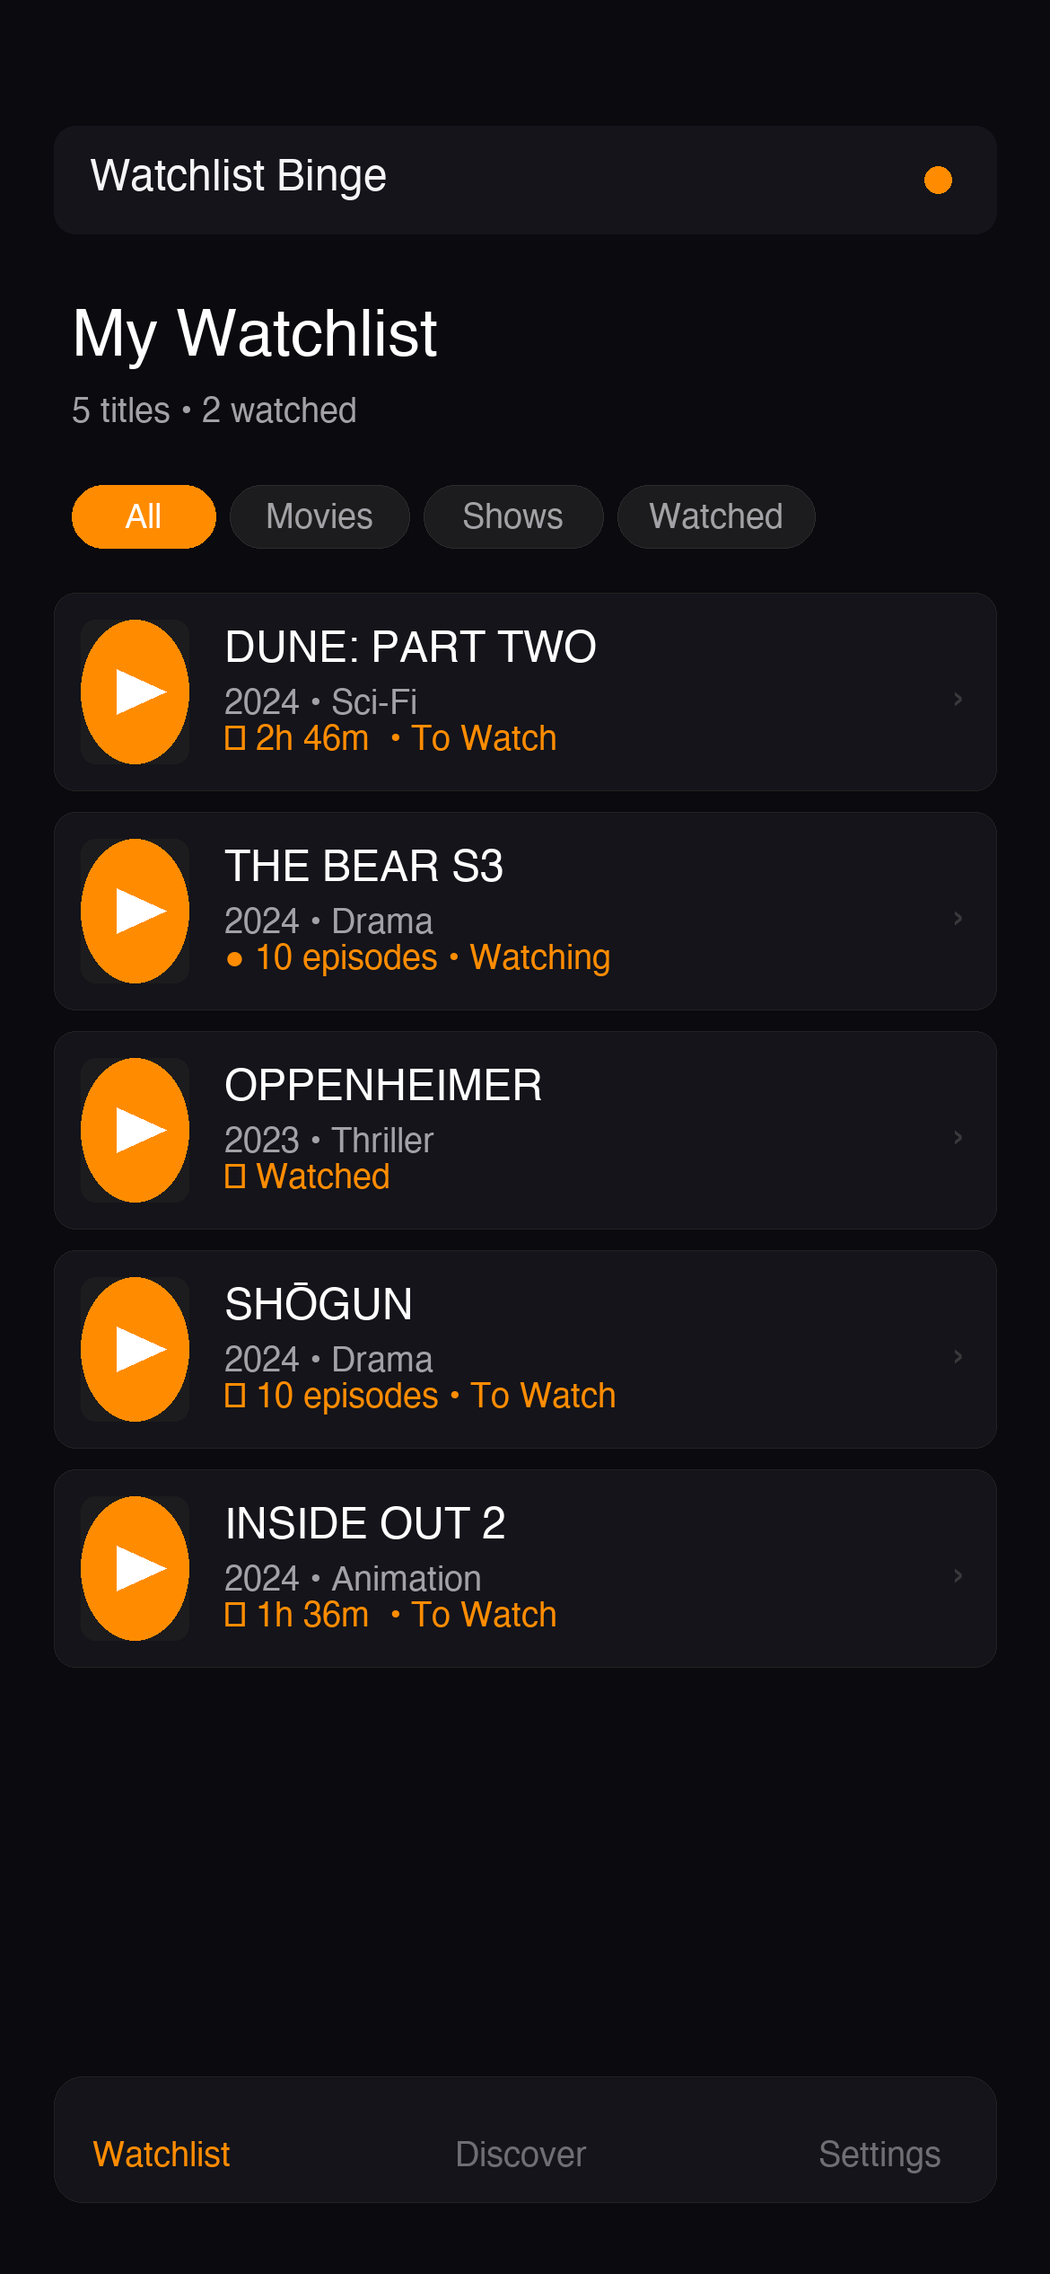
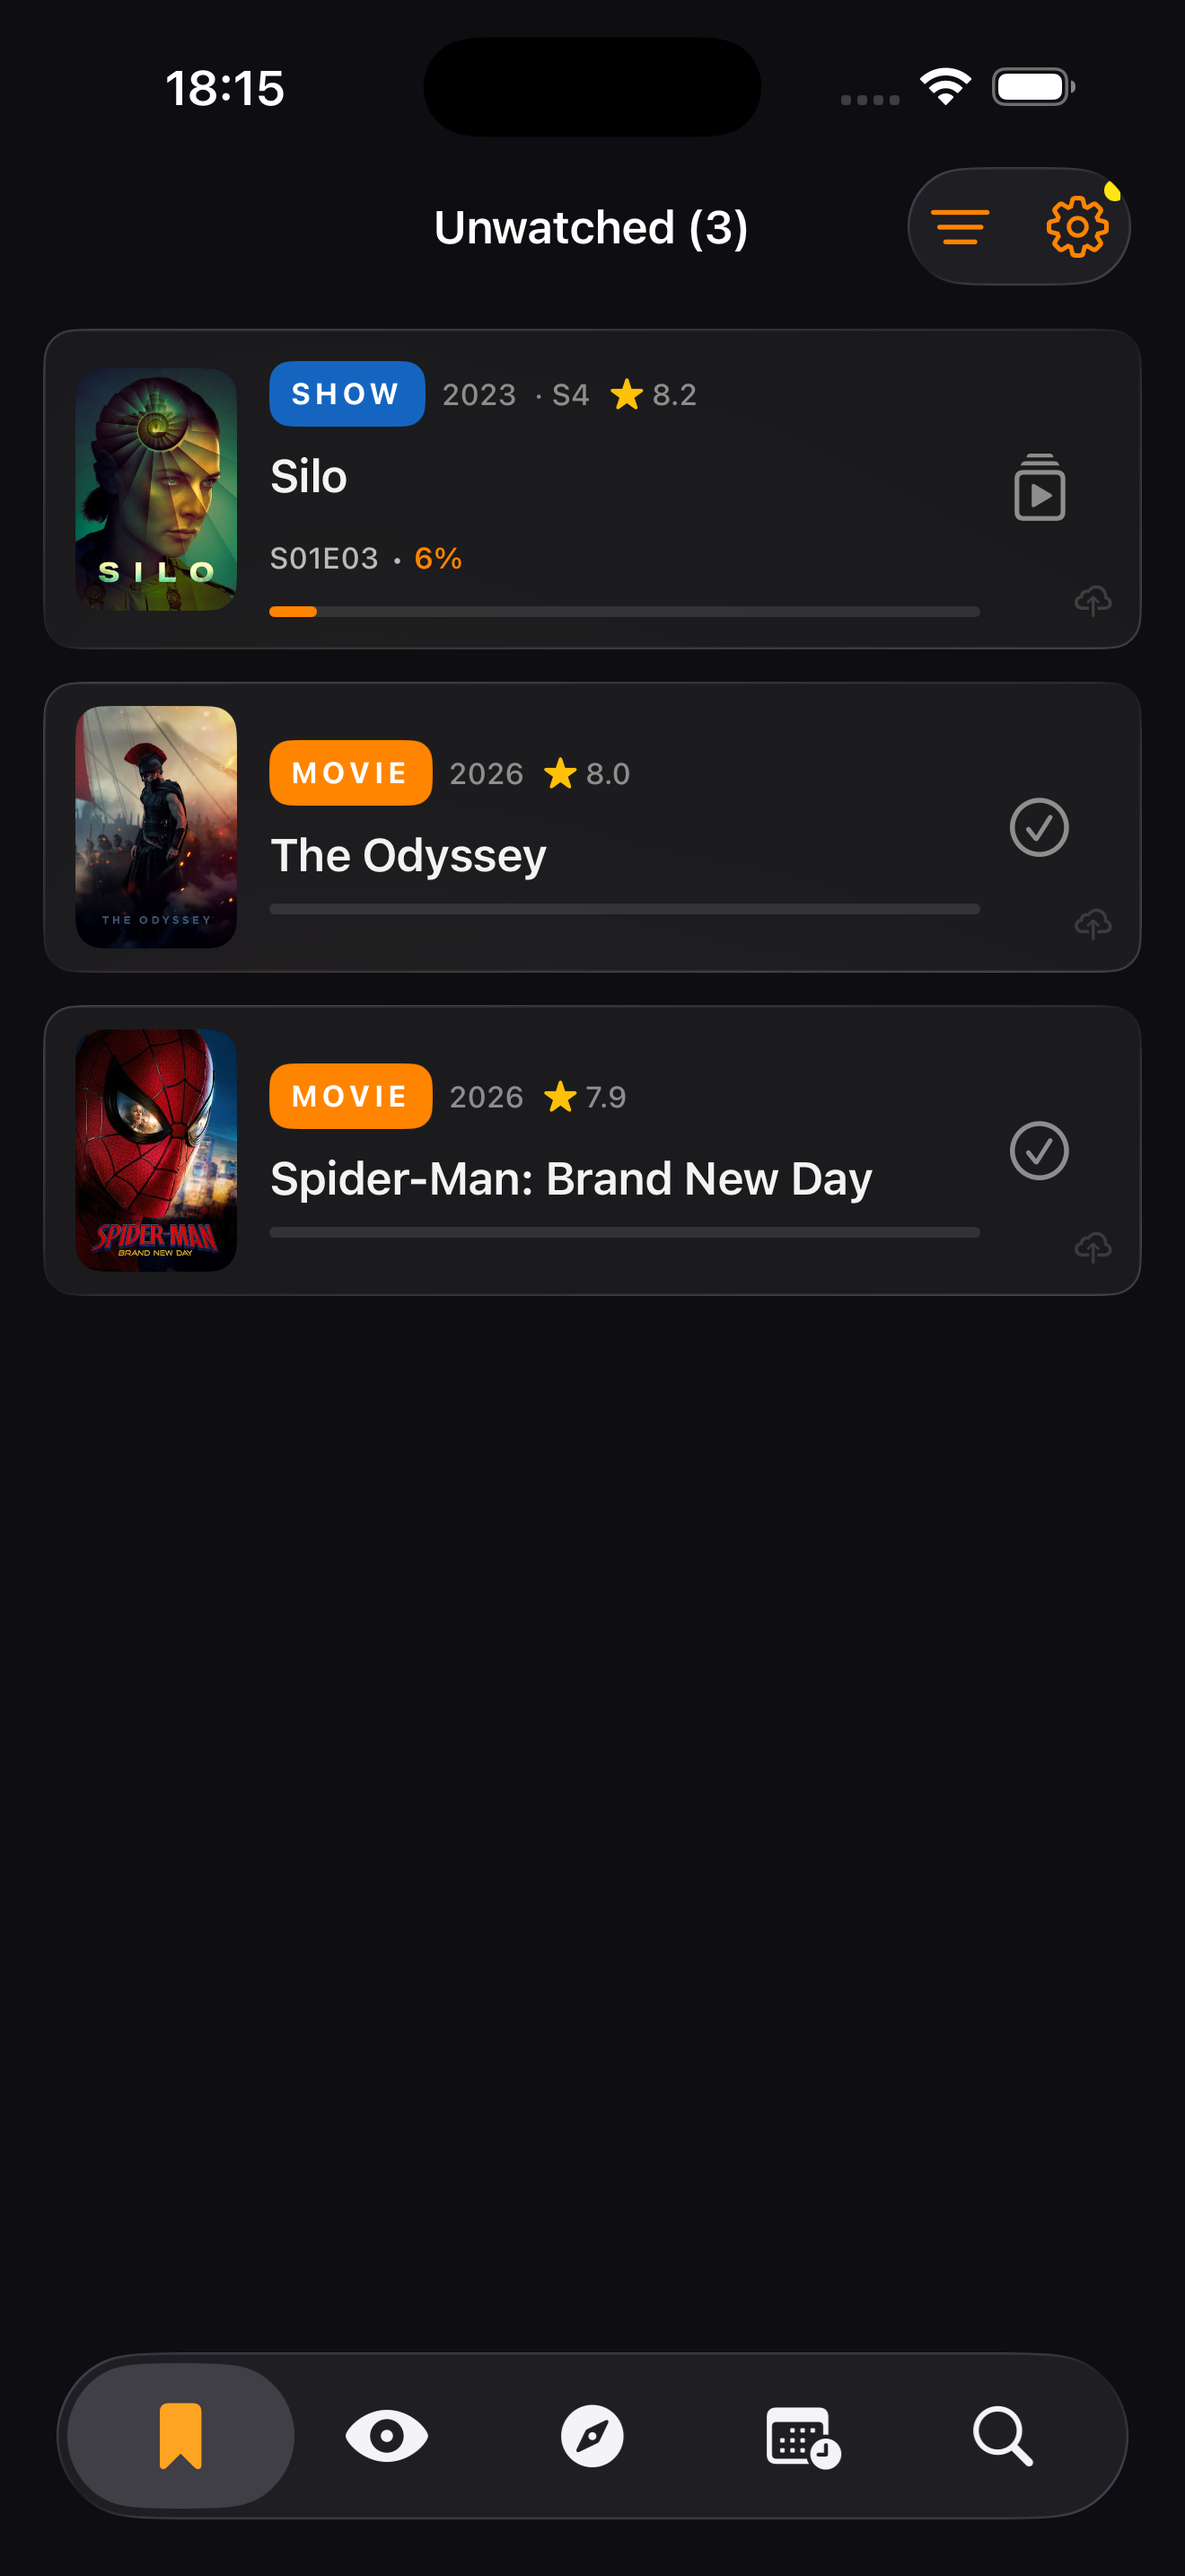
Use real iPhone screenshots from Desktop

diff --git a/index.html b/index.html
@@ -139,20 +139,19 @@
     <h2 style="font-size:28px; letter-spacing:-0.02em; max-width:600px;">Made for binge watchers.</h2>
     <div class="shots">
       <figure class="shot">
-        <img src="screenshots/shot-watchlist.png" alt="My Watchlist screenshot" loading="lazy">
-        <figcaption><strong>My Watchlist</strong>All movies & shows in one place</figcaption>
+        <img src="screenshots/shot-watchlist.png" alt="Unwatched list screenshot" loading="lazy">
+        <figcaption><strong>Unwatched</strong>Your watchlist with progress & ratings</figcaption>
       </figure>
       <figure class="shot">
-        <img src="screenshots/shot-watched.png" alt="Watched screenshot" loading="lazy">
-        <figcaption><strong>Track Progress</strong>Mark watched & rate</figcaption>
+        <img src="screenshots/shot-detail.png" alt="Movie detail screenshot" loading="lazy">
+        <figcaption><strong>Details & Trailers</strong>Cast, runtime, overview & more</figcaption>
       </figure>
       <figure class="shot">
-        <img src="screenshots/shot-discover.png" alt="Discover screenshot" loading="lazy">
-        <figcaption><strong>Discover</strong>Find what to watch next</figcaption>
+        <img src="screenshots/shot-upcoming.png" alt="Upcoming screenshot" loading="lazy">
+        <figcaption><strong>Upcoming</strong>Coming soon — add with one tap</figcaption>
       </figure>
     </div>
   </section>
-  <p class="howto">Replace these with real App Store screenshots: just overwrite <code>screenshots/shot-watchlist.png</code> etc. (1170×2532) and push.</p>
 
   <section class="trust">
     <div class="trust-box">
